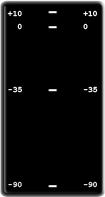
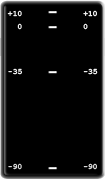
tidied up UI and introduced waveshaper distortion

diff --git a/app/Distortion.cpp b/app/Distortion.cpp
@@ -1,4 +1,8 @@
+#define _USE_MATH_DEFINES
+
 #include "Distortion.h"
+
+#include <math.h>
 
 using namespace std;
 
@@ -18,8 +22,53 @@ Distortion::~Distortion() { }
 // Process audio
 void Distortion::ProcessAudio(double inL, double inR, double* outL, double* outR) 
 {
+	// Ensure overdrive has been specified
+	if (mOverdrive > 0)
+	{
+		//ApplySaturation(inL, inR, outL, outR);
+		ApplyWaveShaper(inL, inR, outL, outR);
+	}
+}
+
+// Handle parameter changes
+void Distortion::ReceiveParameterChangeNotification(int parameterIndex, double newValue) 
+{
+	// Ensure the parameter that has changed is overdrive
+	if (parameterIndex == mParameter) 
+	{
+		// Set overdrive
+		mOverdrive = newValue;
+	}
+}
+
+// Initialise parameters
+void Distortion::InitialiseParameters() 
+{
+	// Overdrive
+	Parameter overdrive;
+	overdrive.Id = mParameter;
+	overdrive.Name = string(mName) + " Overdrive";
+	overdrive.DefaultValue = 0.0;
+	overdrive.MinValue = 0.0;
+	overdrive.MaxValue = 100;
+	overdrive.Step = 0.01;
+	overdrive.Label = "%";
+	overdrive.Group = "";
+	overdrive.Shape = 1.0;
+	mParameters.push_back(overdrive);
+}
+
+// Apply saturation to an audio signal
+void Distortion::ApplySaturation(double inL, double inR, double* outL, double* outR)
+{
 	// Get the value that we want to limit the amplitude by
-	double underdrive = 1 - mOverdrive;
+	double underdrive = 1 - (mOverdrive / 100);
+
+	// If underdrive = 0, then set it to 0.1 - we want sound to come out!
+	if (underdrive == 0)
+	{
+		underdrive = 0.1;
+	}
 
 	// Value pointed to by output = value pointed to by input or overdrive
 	*outL = inL >= 0
@@ -35,30 +84,25 @@ void Distortion::ProcessAudio(double inL, double inR, double* outL, double* outR
 	*outR /= underdrive;
 }
 
-// Handle parameter changes
-void Distortion::ReceiveParameterChangeNotification(int parameterIndex, double newValue) 
-{
-	// Ensure the parameter that has changed is overdrive
-	if (parameterIndex == mParameter) 
+// Apply waveshaper to an audio signal
+void Distortion::ApplyWaveShaper(double inL, double inR, double* outL, double* outR)
+{	
+	// Transform the overdrive value into the value we need to wave shape
+	double waveOverdrive = (mOverdrive / 10);
+	if (waveOverdrive - floor(waveOverdrive) == 0)
 	{
-		// Set overdrive
-		mOverdrive = newValue / 100.0;
+		waveOverdrive -= 0.1;
 	}
-}
 
-// Initialise parameters
-void Distortion::InitialiseParameters() 
-{
-	// Overdrive
-	Parameter overdrive;
-	overdrive.Id = mParameter;
-	overdrive.Name = string(mName) + " Overdrive";
-	overdrive.DefaultValue = 0.0;
-	overdrive.MinValue = 0.0;
-	overdrive.MaxValue = 99.99;
-	overdrive.Step = 0.01;
-	overdrive.Label = "%";
-	overdrive.Group = "";
-	overdrive.Shape = 1.0;
-	mParameters.push_back(overdrive);
+	double z = M_PI * waveOverdrive;
+	double s = 1 / sin(z);
+	double b = 1 / waveOverdrive;
+
+	*outL = inL > b
+		? 1
+		: sin(z * inL) * s;
+
+	*outR = inR > b
+		? 1
+		: sin(z * inR) * s;
 }

diff --git a/app/MultifuzzEditor.cpp b/app/MultifuzzEditor.cpp
@@ -82,23 +82,23 @@ void MultifuzzEditor::MakeGainControls(IGraphics* graphics)
 	IText lblText = IText(16, &COLOR_BLACK, strdup(LayoutConstants::kGlobalFont.c_str()),
 		IText::EStyle::kStyleNormal, IText::EAlign::kAlignCenter);
 
-	graphics->AttachControl(new ITextControl(mPlugin, IRECT(90, 125, 195, 150), &lblText, "Input"));
-	graphics->AttachControl(new ITextControl(mPlugin, IRECT(200, 125, 305, 150), &lblText, "Output"));
+	graphics->AttachControl(new ITextControl(mPlugin, IRECT(90, 123, 195, 150), &lblText, "Input"));
+	graphics->AttachControl(new ITextControl(mPlugin, IRECT(200, 123, 305, 150), &lblText, "Output"));
 	
 	// Attach the VU Meter bitmaps
 	IBitmap vuMeterBitmap = graphics->LoadIBitmap(VUMETER_ID, VUMETER_FN);
-	graphics->AttachControl(new IBitmapControl(mPlugin, 90, 152, &vuMeterBitmap));
-	graphics->AttachControl(new IBitmapControl(mPlugin, 200, 152, &vuMeterBitmap));
+	graphics->AttachControl(new IBitmapControl(mPlugin, 90, 150, &vuMeterBitmap));
+	graphics->AttachControl(new IBitmapControl(mPlugin, 200, 150, &vuMeterBitmap));
 
 	// Add the vu meters
-	mInputPeakIdxL = graphics->AttachControl(new PeakMeter(mPlugin, IRECT(115, 158, 136, 340)));
-	mInputPeakIdxR = graphics->AttachControl(new PeakMeter(mPlugin, IRECT(150, 158, 171, 340)));
-	mOutputPeakIdxL = graphics->AttachControl(new PeakMeter(mPlugin, IRECT(225, 158, 246, 340)));
-	mOutputPeakIdxR = graphics->AttachControl(new PeakMeter(mPlugin, IRECT(260, 158, 281, 340)));
+	mInputPeakIdxL = graphics->AttachControl(new PeakMeter(mPlugin, IRECT(115, 143, 136, 320)));
+	mInputPeakIdxR = graphics->AttachControl(new PeakMeter(mPlugin, IRECT(150, 143, 171, 320)));
+	mOutputPeakIdxL = graphics->AttachControl(new PeakMeter(mPlugin, IRECT(225, 143, 246, 320)));
+	mOutputPeakIdxR = graphics->AttachControl(new PeakMeter(mPlugin, IRECT(260, 143, 281, 320)));
 
 	// Add knobs
-	MakeKnob(graphics, 111, 380, EParameters::InputGain, "gain");
-	MakeKnob(graphics, 221, 380, EParameters::OutputGain, "gain");
+	MakeKnob(graphics, 111, 358, EParameters::InputGain, "gain");
+	MakeKnob(graphics, 221, 358, EParameters::OutputGain, "gain");
 }
 
 // Make the distortion controls

diff --git a/app/PeakMeter.cpp b/app/PeakMeter.cpp
@@ -7,7 +7,7 @@ using namespace std;
 // Construct
 PeakMeter::PeakMeter(IPlugBase* plugin, IRECT rectangle)
 	: IControl(plugin, rectangle), mDbRange(abs(kDbLow - kDbHigh)), 
-	mDbRangePerBlock(mDbRange / kNumberOfBlocks) 
+	mDbRangePerBlock((double)mDbRange / (double)kNumberOfBlocks) 
 {
 	// Set the clamp so we can receive amplitudes above 0
 	Clamp(0, 10.0);
@@ -23,7 +23,7 @@ bool PeakMeter::Draw(IGraphics* graphics)
 	int meterHeight = mRECT.B - mRECT.T;
 	int fullBlockSize = meterHeight / kNumberOfBlocks;
 	int blockSize = (fullBlockSize / 3) * 2;
-	int gapSize = (fullBlockSize - blockSize);
+	int gapSize = fullBlockSize - blockSize;
 
 	// Calculate some position values that we'll use to track drawing locations
 	int blockB = mRECT.B - (gapSize / 2);
@@ -47,16 +47,9 @@ bool PeakMeter::Draw(IGraphics* graphics)
 				: COLOR_RED;
 
 		// See if the db is greater than the lower db value of the block
-		if (db > kDbLow + (mDbRangePerBlock * i)) 
-		{
-			// Set opacity of block to full if so
-			color.A = 255;
-		} 
-		else 
-		{
-			// Set opacity of the block to half if not
-			color.A = 50;
-		}
+		color.A = db > kDbLow + (mDbRangePerBlock * i)
+			? color.A = 255 // Set opacity of block to full if so
+			: color.A = 100; // Set opacity of the block to half if not
 		
 		// Fill the block with the color
 		graphics->FillIRect(&color, &block);

diff --git a/app/AudioProcessor.cpp b/app/AudioProcessor.cpp
@@ -41,7 +41,7 @@ AudioProcessor::~AudioProcessor()
 	delete mOutputGainController;
 
 	// Iterate overthe band distortion pointers and delete them
-	for (int i = 0; i < NumberOfBandDistortions; i++)
+	for (int i = 0; i < kNumberOfBandDistortions; i++)
 	{
 		delete mBandDistortions[i];
 	}
@@ -98,7 +98,7 @@ void AudioProcessor::ProcessBandDistortions(double inL, double inR, double* outL
 	double mixR = 0;
 
 	// Iterate over band distortions and add the output to the mix
-	for (int i = 0; i < NumberOfBandDistortions; i++)
+	for (int i = 0; i < kNumberOfBandDistortions; i++)
 	{
 		double l = 0;
 		double r = 0;

diff --git a/app/AudioProcessor.h b/app/AudioProcessor.h
@@ -23,10 +23,10 @@ public:
 	void RegisterPeakListener(IPeakListener* listener);
 
 private:
-	static const int NumberOfBandDistortions = 3;
+	static const int kNumberOfBandDistortions = 3;
 	GainController* mInputGainController;
 	GainController* mOutputGainController;
-	BandDistortion* mBandDistortions[NumberOfBandDistortions];
+	BandDistortion* mBandDistortions[kNumberOfBandDistortions];
 	list<IPeakListener*> mPeakListeners = list<IPeakListener*>();
 
 	void SendPeakChangeNotification(double inPeakL, double inPeakR, double outPeakL, double outPeakR);

diff --git a/app/PeakMeter.h b/app/PeakMeter.h
@@ -10,9 +10,9 @@ public:
 	virtual bool Draw(IGraphics* graphics);
 
 private:
-	const int kNumberOfBlocks = 20;
-	const int kLowSectionUpperBound = 11;
-	const int kMidSectionUpperBound = 18;
+	const int kNumberOfBlocks = 40;
+	const int kLowSectionUpperBound = 32;
+	const int kMidSectionUpperBound = 36;
 	const int kDbLow = -90;
 	const int kDbHigh = 10;
 	int mDbRange;

diff --git a/app/GainController.cpp b/app/GainController.cpp
@@ -41,10 +41,10 @@ void GainController::InitialiseParameters()
 	gain.Name = mName;
 	gain.DefaultValue = 0.0;
 	gain.MinValue = -48.0;
-	gain.MaxValue = 10.0;
+	gain.MaxValue = 12.0;
 	gain.Step = 0.01;
 	gain.Label = "db";
 	gain.Group = "";
-	gain.Shape = 1.0;
+	gain.Shape = 0.321928;
 	mParameters.push_back(gain);
 }

diff --git a/app/Distortion.h b/app/Distortion.h
@@ -24,5 +24,7 @@ private:
 	MultifuzzParameterManager* mParameterManager;
 	list<Parameter> mParameters = list<Parameter>();
 	void InitialiseParameters();
+	void ApplySaturation(double inL, double inR, double* outL, double* outR);
+	void ApplyWaveShaper(double inL, double inR, double* outL, double* outR);
 };
 
